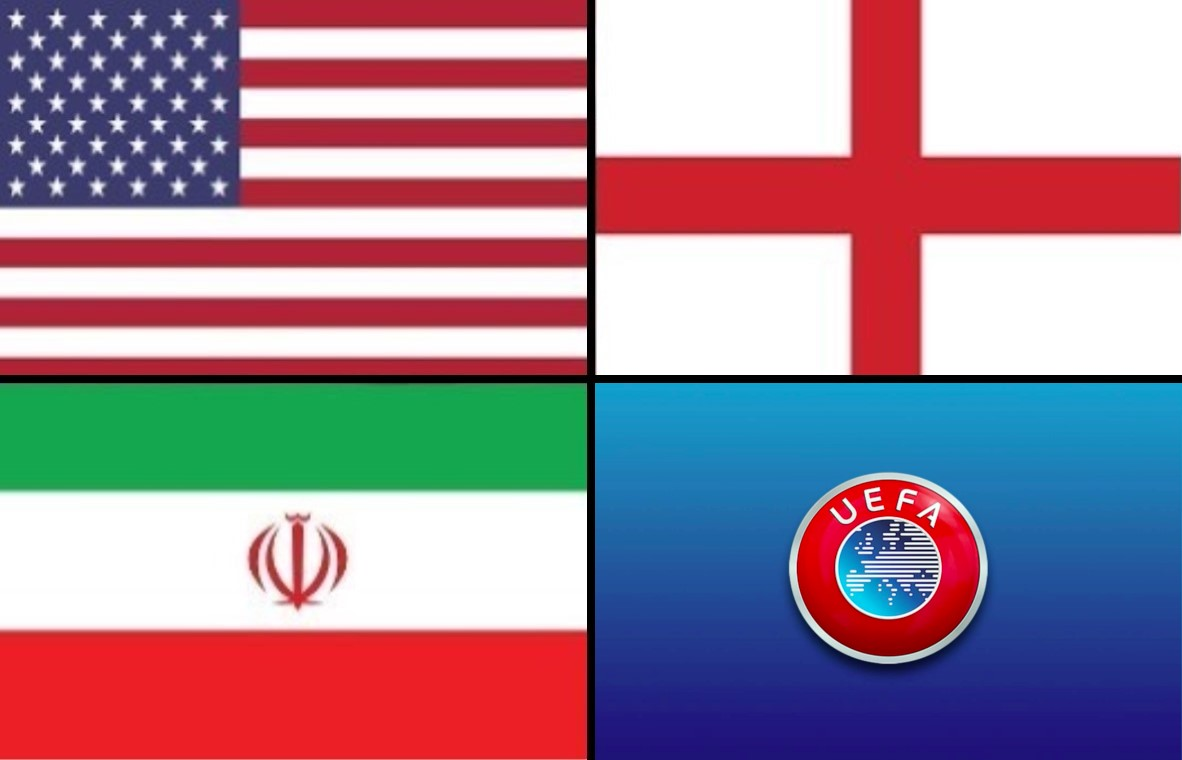
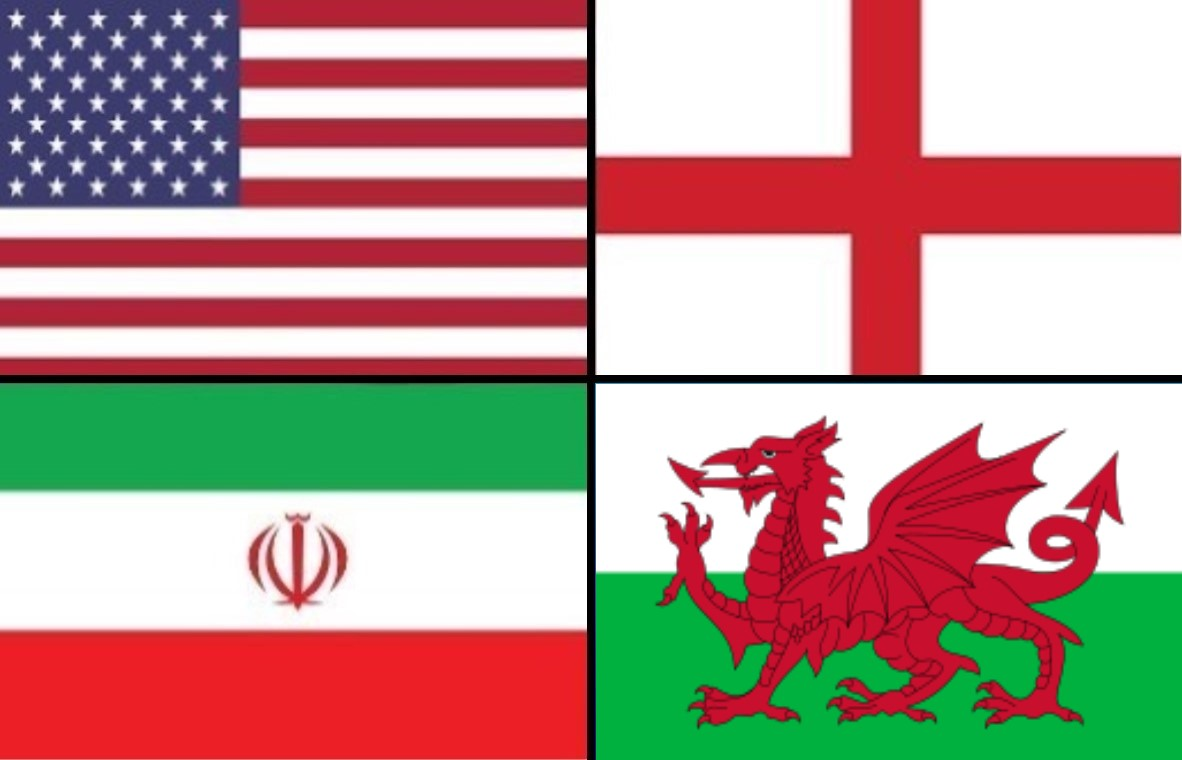
css3

Changed region(s): [[0.4873, 0.4842, 1.0, 1.0]]

diff --git a/Grupos/grupo_b.html b/Grupos/grupo_b.html
@@ -67,7 +67,7 @@
                     <td>0</td> <!--Aproveitamento-->
                 </tr>
                 <tr>
-                    <td><img src="../Imagens_pais_individual/Uefa.png" alt="Ind." width="18" height="18"> Ind.</td>
+                    <td><img src="../Imagens_pais_individual/Gales.png" alt="Ind." width="18" height="18"> Gales</td>
                     <td>0</td> <!--Pontos-->
                     <td>0</td> <!--partidas jogadas-->
                     <td>0</td> <!--vitórias-->
@@ -98,7 +98,7 @@
                     <td>Khalifa</td>
                 </tr>
                 <tr>
-                    <td><img src="../Imagens_pais_individual/EUA.png" alt="EUA" width="18" height="18"> Estados Unidos x Ind. <img src="../Imagens_pais_individual/Uefa.png" alt="Ind." width="18" height="18"></td>
+                    <td><img src="../Imagens_pais_individual/EUA.png" alt="EUA" width="18" height="18"> Estados Unidos x Gales <img src="../Imagens_pais_individual/Gales.png" alt="Ind." width="18" height="18"></td>
                     <td>16:00</td>
                     <td>21/11/22</td>
                     <td>Al Rayyan</td>
@@ -117,7 +117,7 @@
             </thead>
             <tbody>
                 <tr>
-                    <td><img src="../Imagens_pais_individual/Uefa.png" alt="Ind." width="18" height="18"> Ind. x Irã <img src="../Imagens_pais_individual/Ira.png" alt="Irã" width="18" height="18"></td>
+                    <td><img src="../Imagens_pais_individual/Gales.png" alt="Ind." width="18" height="18"> Gales x Irã <img src="../Imagens_pais_individual/Ira.png" alt="Irã" width="18" height="18"></td>
                     <td>7:00</td>
                     <td>25/11/22</td>
                     <td>Al Rayyan</td>
@@ -142,13 +142,13 @@
             </thead>
             <tbody>
                 <tr>
-                    <td><img src="../Imagens_pais_individual/Ira.png" alt="Irã" width="18" height="18">Irã x Estados Unidos <img src="../Imagens_pais_individual/EUA.png" alt="EUA" width="18" height="18"></td>
+                    <td><img src="../Imagens_pais_individual/Ira.png" alt="Irã" width="18" height="18"> Irã x Estados Unidos <img src="../Imagens_pais_individual/EUA.png" alt="EUA" width="18" height="18"></td>
                     <td>16:00</td>
                     <td>29/11/22</td>
                     <td>Al Thumama</td>
                 </tr>
                 <tr>
-                    <td><img src="../Imagens_pais_individual/Uefa.png" alt="Ind." width="18" height="18"> Ind. x Inglaterra <img src="../Imagens_pais_individual/Inglaterra.png" alt="Inglaterra" width="18" height="18"></td>
+                    <td><img src="../Imagens_pais_individual/Gales.png" alt="Ind." width="18" height="18"> Gales x Inglaterra <img src="../Imagens_pais_individual/Inglaterra.png" alt="Inglaterra" width="18" height="18"></td>
                     <td>16:00</td>
                     <td>29/11/22</td>
                     <td>Al Rayyan</td>

diff --git a/Grupos/grupo_d.html b/Grupos/grupo_d.html
@@ -43,7 +43,7 @@
                     <td>0</td> <!--Aproveitamento-->
                 </tr>
                 <tr>
-                    <td><img src="../Imagens_pais_individual/Fifa.png" alt="Ind."> Ind.</td>
+                    <td><img src="../Imagens_pais_individual/Australia.png" alt="Austrália" width="18" height="18"> Austrália</td>
                     <td>0</td> <!--Pontos-->
                     <td>0</td> <!--partidas jogadas-->
                     <td>0</td> <!--vitórias-->
@@ -99,7 +99,7 @@
                     <td>Cidade da Educação</td>
                 </tr>
                 <tr>
-                    <td><img src="../Imagens_pais_individual/Franca.png" alt="França" width="18" height="18"> França x Ind. <img src="../Imagens_pais_individual/Fifa.png" alt="Ind."></td>
+                    <td><img src="../Imagens_pais_individual/Franca.png" alt="França" width="18" height="18"> França x Austrália <img src="../Imagens_pais_individual/Australia.png" alt="Austrália" width="18" height="18"></td>
                     <td>16:00</td>
                     <td>22/11/22</td>
                     <td>Al-Wakrah</td>
@@ -118,7 +118,7 @@
             </thead>
             <tbody>
                 <tr>
-                    <td><img src="../Imagens_pais_individual/Tunisia.png" alt="Tunísia" width="18" height="18"> Tunísia x Ind. <img src="../Imagens_pais_individual/Fifa.png" alt="Ind."></td>
+                    <td><img src="../Imagens_pais_individual/Tunisia.png" alt="Tunísia" width="18" height="18"> Tunísia x Austrália <img src="../Imagens_pais_individual/Australia.png" alt="Austrália" width="18" height="18"></td>
                     <td>7:00</td>
                     <td>26/11/22</td>
                     <td>Al-Wakrah</td>
@@ -149,7 +149,7 @@
                     <td>Cidade da Educação</td>
                 </tr>
                 <tr>
-                    <td><img src="../Imagens_pais_individual/Fifa.png" alt="Ind."> Ind. x Dinamarca <img src="../Imagens_pais_individual/Dinamarca.png" alt="Dinamarca" width="18" height="18"></td>
+                    <td><img src="../Imagens_pais_individual/Australia.png" alt="Austrália" width="18" height="18"> Austrália x Dinamarca <img src="../Imagens_pais_individual/Dinamarca.png" alt="Dinamarca" width="18" height="18"></td>
                     <td>12:00</td>
                     <td>30/11/22</td>
                     <td>Al-Wakrah</td>

diff --git a/Grupos/grupo_e.html b/Grupos/grupo_e.html
@@ -55,7 +55,7 @@
                     <td>0</td> <!--Aproveitamento-->
                 </tr>
                 <tr>
-                    <td><img src="../Imagens_pais_individual/Fifa.png" alt="Ind."> Ind.</td>
+                    <td><img src="../Imagens_pais_individual/Costa_rica.png" alt="Costa Rica" width="18" height="18"> Costa Rica</td>
                     <td>0</td> <!--Pontos-->
                     <td>0</td> <!--partidas jogadas-->
                     <td>0</td> <!--vitórias-->
@@ -99,7 +99,7 @@
                     <td>Khalifa</td>
                 </tr>
                 <tr>
-                    <td><img src="../Imagens_pais_individual/Espanha.png" alt="Espanha" width="18" height="18"> Espanha x Ind. <img src="../Imagens_pais_individual/Fifa.png" alt="Ind."></td>
+                    <td><img src="../Imagens_pais_individual/Espanha.png" alt="Espanha" width="18" height="18"> Espanha x Costa Rica <img src="../Imagens_pais_individual/Costa_rica.png" alt="Costa Rica" width="18" height="18"></td>
                     <td>13:00</td>
                     <td>23/11/22</td>
                     <td>Al Thumama</td>
@@ -118,7 +118,7 @@
             </thead>
             <tbody>
                 <tr>
-                    <td><img src="../Imagens_pais_individual/Japao.png" alt="Japão" width="18" height="18"> Japão x Ind. <img src="../Imagens_pais_individual/Fifa.png" alt="Ind."></td>
+                    <td><img src="../Imagens_pais_individual/Japao.png" alt="Japão" width="18" height="18"> Japão x Costa Rica <img src="../Imagens_pais_individual/Costa_rica.png" alt="Costa Rica" width="18" height="18"></td>
                     <td>7:00</td>
                     <td>27/11/22</td>
                     <td>Al Rayyan</td>
@@ -149,7 +149,7 @@
                     <td>Khalifa</td>
                 </tr>
                 <tr>
-                    <td><img src="../Imagens_pais_individual/Fifa.png" alt="Ind."> Ind. x Alemanha <img src="../Imagens_pais_individual/Alemanha.png" alt="Alemanha" width="18" height="18"></td>
+                    <td><img src="../Imagens_pais_individual/Costa_rica.png" alt="Costa Rica" width="18" height="18"> Costa Rica x Alemanha <img src="../Imagens_pais_individual/Alemanha.png" alt="Alemanha" width="18" height="18"></td>
                     <td>16:00</td>
                     <td>01/12/22</td>
                     <td>Al Bayt</td>
